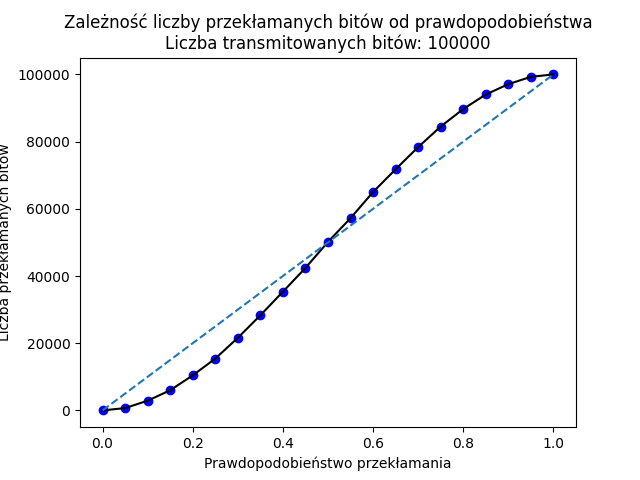
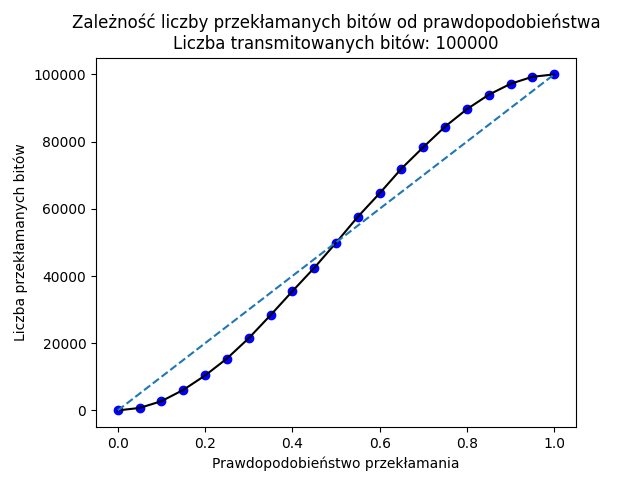
Etap1 final1

diff --git a/Etap1/Main.py b/Etap1/Main.py
@@ -29,6 +29,7 @@ def plot(bits_number):
     # tworzenie wykresu
     x = np.arange(0, 1.05, 0.05)
     y = differences_number_list
+    plt.gcf().subplots_adjust(left=0.15)
     plt.xlabel('Prawdopodobieństwo przekłamania')
     plt.ylabel('Liczba przekłamanych bitów')
     plt.title(f'Zależność liczby przekłamanych bitów od prawdopodobieństwa\nLiczba transmitowanych bitów: {bits_number}')
@@ -68,13 +69,13 @@ def simulation(bits_number, probability):
     return results
 
 
-plot(10)
-plot(100)
-plot(1000)
-plot(10000)
-plot(12208)
+#plot(10)
+#plot(100)
+#plot(1000)
+#plot(10000)
+#plot(12208)
 plot(100000)
 
-print_results(50, 0.2)
+#print_results(50, 0.2)
 
 

diff --git a/Etap1/Decoder.py b/Etap1/Decoder.py
@@ -10,7 +10,7 @@ class Decoder:
             suma = input_bits[i] + input_bits[i+1] + input_bits[i+2]
             # algorytm głosujący
             if suma < 2:
-                output.append(0);
+                output.append(0)
             else:
                 output.append(1)
         return output

diff --git a/Etap1/Coder.py b/Etap1/Coder.py
@@ -3,7 +3,7 @@
 """
 klasa Coder dziedziczy po klasie Generator
 """
-class Coder():
+class Coder:
 
 
     """
